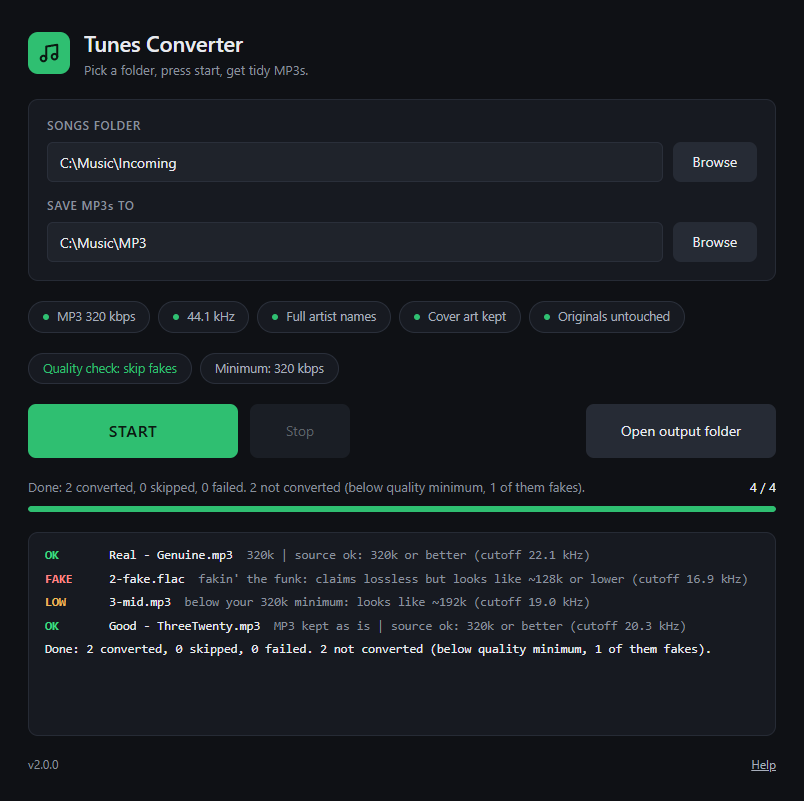
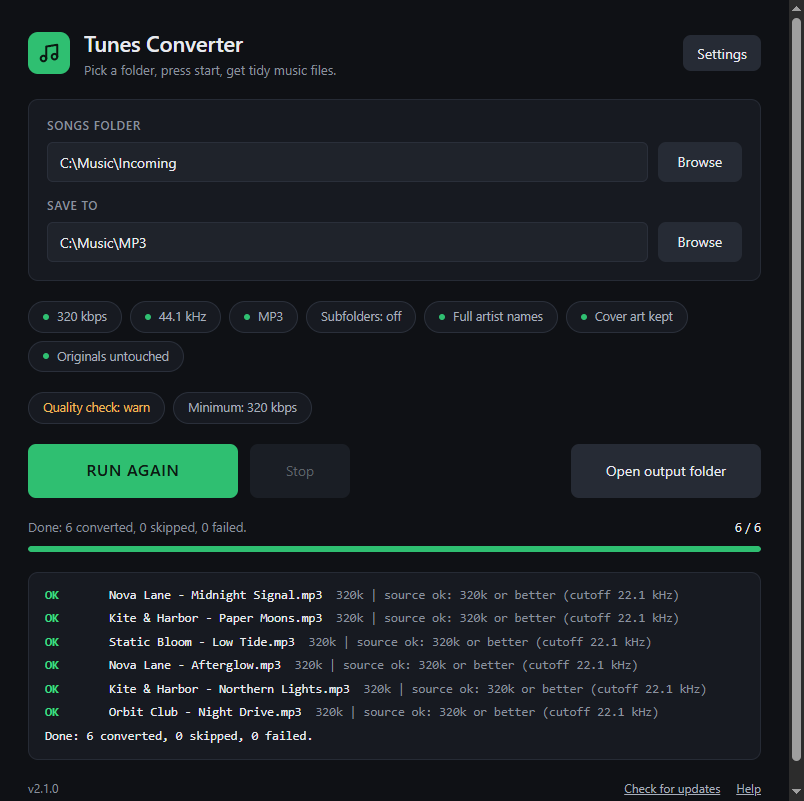
README: current features, installer, macOS first-run steps, settings; new screenshot

diff --git a/README.md b/README.md
@@ -1,6 +1,6 @@
 # Tunes Converter
 
-Drop a folder of music in, press **START**, get tidy MP3s out. A small, portable app for **Windows, macOS and Linux**.
+Drop a folder of music in, press **START**, get tidy MP3s (or FLAC, WAV, AAC, Opus) out. A small, portable app for **Windows, macOS and Linux**.
 
 **[Download the latest release](https://github.com/bobojuice/tunes-converter/releases/latest)** |
 **[Full instructions](docs/HOWTO.md)**
@@ -9,40 +9,49 @@ Drop a folder of music in, press **START**, get tidy MP3s out. A small, portable
 
 ## What it does
 
-- **MP3 at 320 kbps** (CBR, 44.1 kHz) by default, via ffmpeg/LAME. Bitrate and sample rate are one click away.
-- **Correct names:** files become `Artist - Title.mp3`. Tracks with several artists in separate tags
+- **MP3 at 320 kbps** (CBR, 44.1 kHz) by default, via ffmpeg/LAME. Or choose **AAC (M4A), FLAC, WAV or Opus** in
+  the Settings panel.
+- **Lossless and DJ use:** WAV and FLAC come out at **16-bit** (the most compatible) or 24-bit. Sources stored as
+  32-bit float are converted down to the depth you choose (dithered at 16-bit).
+- **Correct names:** files become `Artist - Title.mp3` by default. Tracks with several artists in separate tags
   (e.g. `ARTIST=Pola & Bryson` + `ARTIST=Cimone`) become `Pola & Bryson, Cimone - Title.mp3` instead of
-  keeping only the last artist.
+  keeping only the last artist. Pick another pattern (Title, Track - Artist - Title, ...) or write your own with
+  `{artist}`, `{title}`, `{album}`, `{albumartist}`, `{track}` and `{year}`.
+- **Tag options:** keep all tags (default), keep only the main fields, or remove all tags. Cover art is kept
+  unless you turn it off; MP3 tags are written as ID3v2.3 (works with DJ software and car stereos).
 - **Fake-quality check (optional):** measures where each file's audio really stops, not what its tag claims, to
   estimate its likely real quality. It can warn about or skip files below a minimum you choose, for example a
   128k MP3 passed off as 320 or lossless. It is an estimate, not proof. Details in
   [docs/HOWTO.md](docs/HOWTO.md#quality-check-spot-fake-files).
-- **Tags and cover art kept**, written as ID3v2.3 (works with DJ software and car stereos).
+- **Drag and drop** a folder or music files onto the window, **include sub-folders** (the folder layout is
+  copied), and see the **time left** while it works.
 - **Originals are never touched.** Output goes to a separate folder; existing files are skipped, so reruns are safe.
-- Reads FLAC, WAV, AIFF, M4A, OGG, Opus, WMA and MP3. MP3 sources are copied as they are (no re-encoding,
-  tags still fixed).
-- Nothing is uploaded anywhere. Everything runs locally.
+- Reads FLAC, WAV, AIFF, M4A, OGG, Opus, WMA and MP3. MP3 sources are copied as they are when the output is MP3
+  (no re-encoding, tags still fixed).
+- Nothing is uploaded anywhere. Everything runs locally. The optional **Check for updates** button only contacts
+  GitHub when you click it.
 
 ## Install and use
 
 | System | Download | Run |
 | ------ | -------- | --- |
-| **Windows** | `TunesConverter-<version>-win-x64.zip` | Unzip anywhere (a USB stick is fine) and double-click `Tunes Converter.exe`. |
-| **macOS** | `TunesConverter-<version>-mac-arm64.dmg` (Apple Silicon) or `-mac-x64.dmg` (Intel) | Open the dmg, drag the app anywhere, right-click it and choose **Open** the first time. |
-| **Linux** | `TunesConverter-<version>-linux-x86_64.AppImage` (or `.tar.gz`) | Make it executable and run it. |
+| **Windows** | `TunesConverter-<version>-win-x64-setup.exe` (installer) or `...-win-x64.zip` (portable) | Run the installer (no admin rights; adds a Start menu entry and a Desktop shortcut), or unzip anywhere (a USB stick is fine) and double-click `Tunes Converter.exe`. |
+| **macOS** | `TunesConverter-<version>-mac-arm64.dmg` (Apple Silicon) or `-mac-x64.dmg` (Intel) | Open the dmg and drag the app to Applications. The first time, open **System Settings > Privacy & Security** and click **Open Anyway**. *Not yet tested on a real Mac.* |
+| **Linux** | `TunesConverter-<version>-linux-x86_64.AppImage` (or `.tar.gz`) | Make it executable and run it. If it will not start, see the troubleshooting table. |
 
-Then add **ffmpeg** once (it is not included): on Windows press **Download ffmpeg** in the app, on macOS run
-`brew install ffmpeg`, on Linux install it with your package manager. The app tells you what to do if it can't
-find it.
+Then add **ffmpeg** once (it is not included): on Windows press **Download ffmpeg** in the app, on macOS use the
+**Get Homebrew** / **Copy command** buttons (`brew install ffmpeg`), on Linux install it with your package
+manager. The app tells you what to do if it can't find it.
 
 Step-by-step help for each system, the Gatekeeper/AppImage notes and troubleshooting:
 **[docs/HOWTO.md](docs/HOWTO.md)**.
 
 ## Settings
 
-The two folders and the option chips (bitrate, sample rate, quality check, minimum) are saved automatically in
-`settings.json`. See [docs/HOWTO.md](docs/HOWTO.md#settings) for where it lives and what each value means.
-
+Click **Settings** (top right) for every option: output format, bit depth, bitrate, sample rate, quality check and
+minimum, file names, tags, sub-folders, cover art, full artist names, and opening the output folder when finished.
+The two folders and all options are saved automatically in `settings.json`. See
+[docs/HOWTO.md](docs/HOWTO.md#settings) for where it lives and what each value means.
 ## Build from source
 
 Needs [Node.js](https://nodejs.org) 22 or newer.
@@ -54,7 +63,7 @@ npm test           # unit + integration tests (needs ffmpeg and ffprobe on your 
 npm run dist       # package for the OS you are on, into ./dist
 ```
 
-GitHub Actions builds all three systems (`.github/workflows/build.yml`); pushing a tag like `v2.0.0` collects them
+GitHub Actions builds all three systems (`.github/workflows/build.yml`); pushing a tag like `v2.1.0` collects them
 into a draft release.
 
 The earlier Windows-only PowerShell version (v1.x) is still available under **Releases**.
